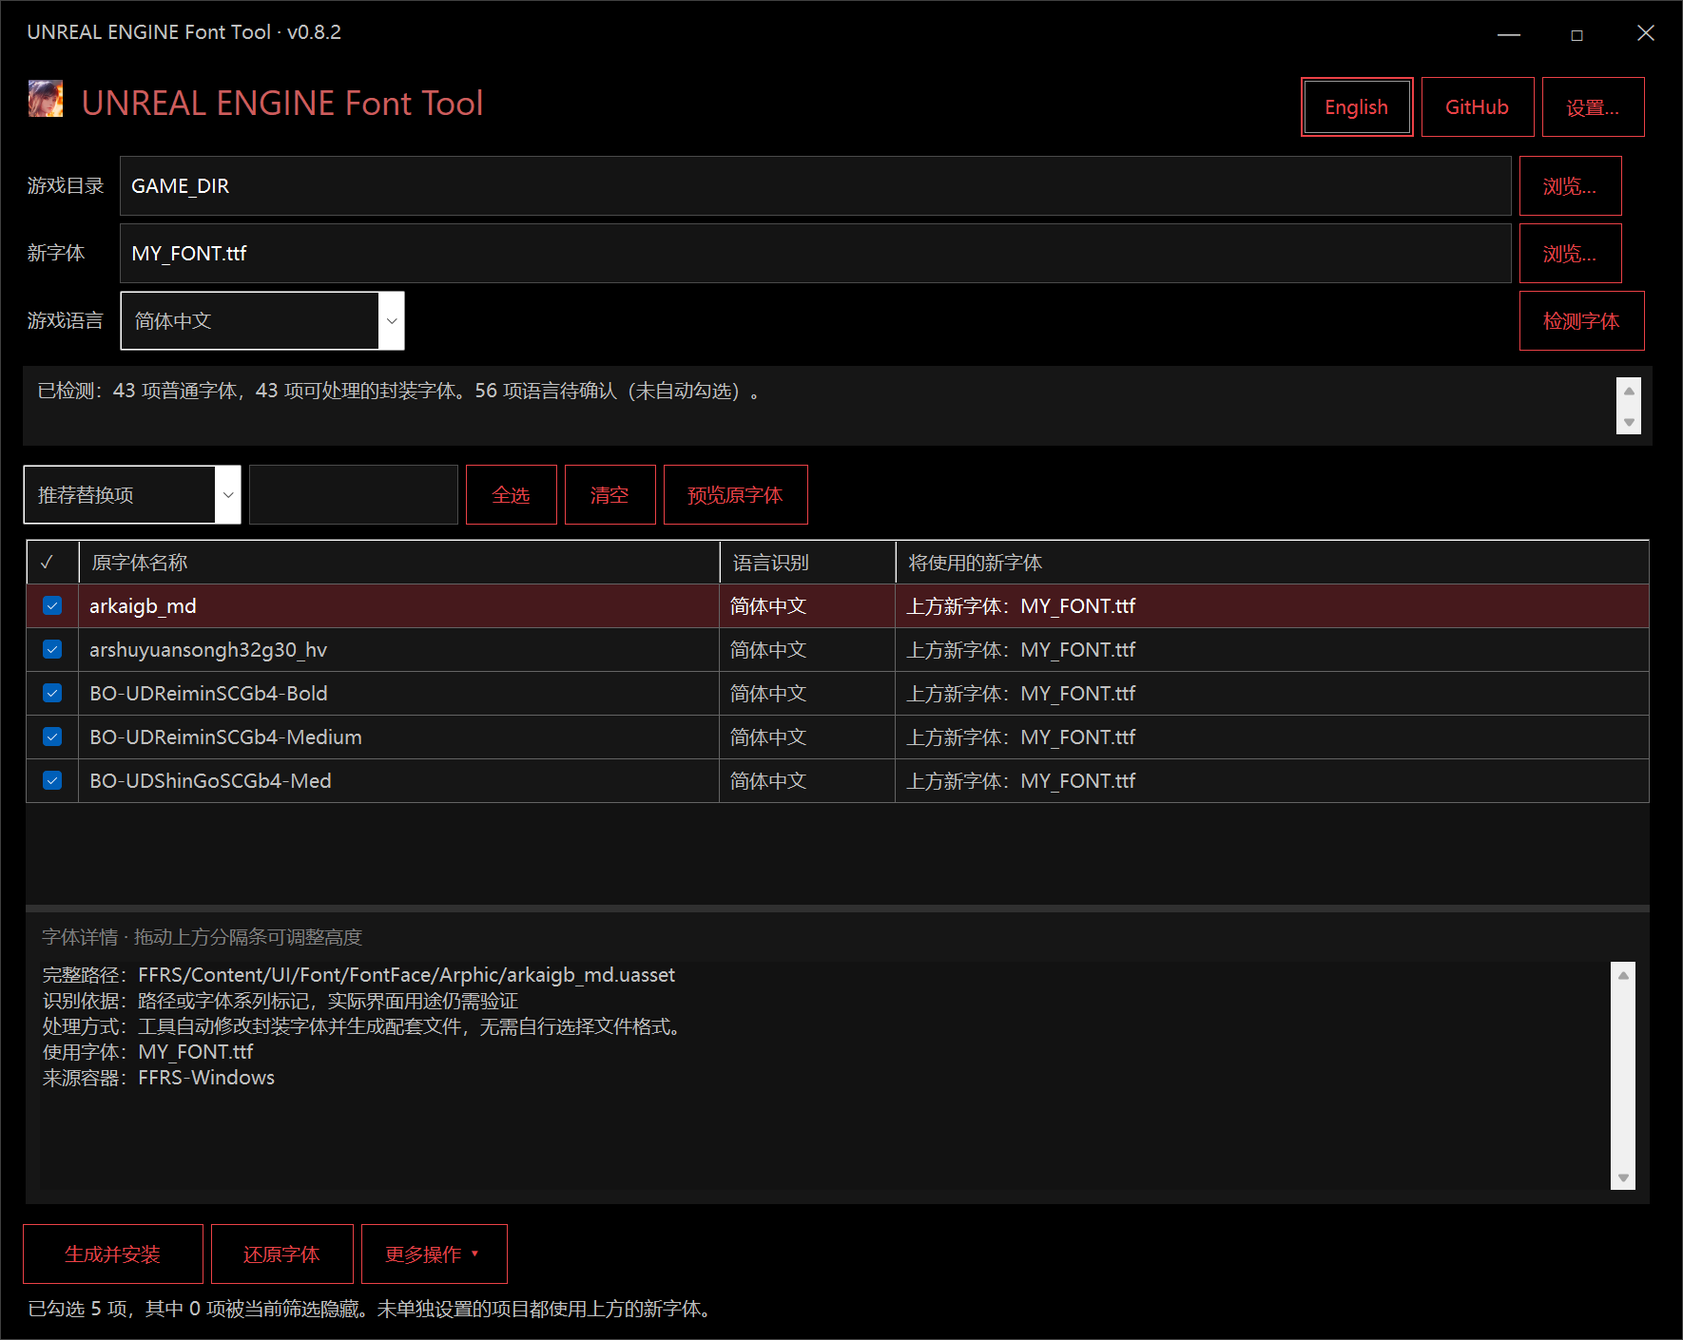
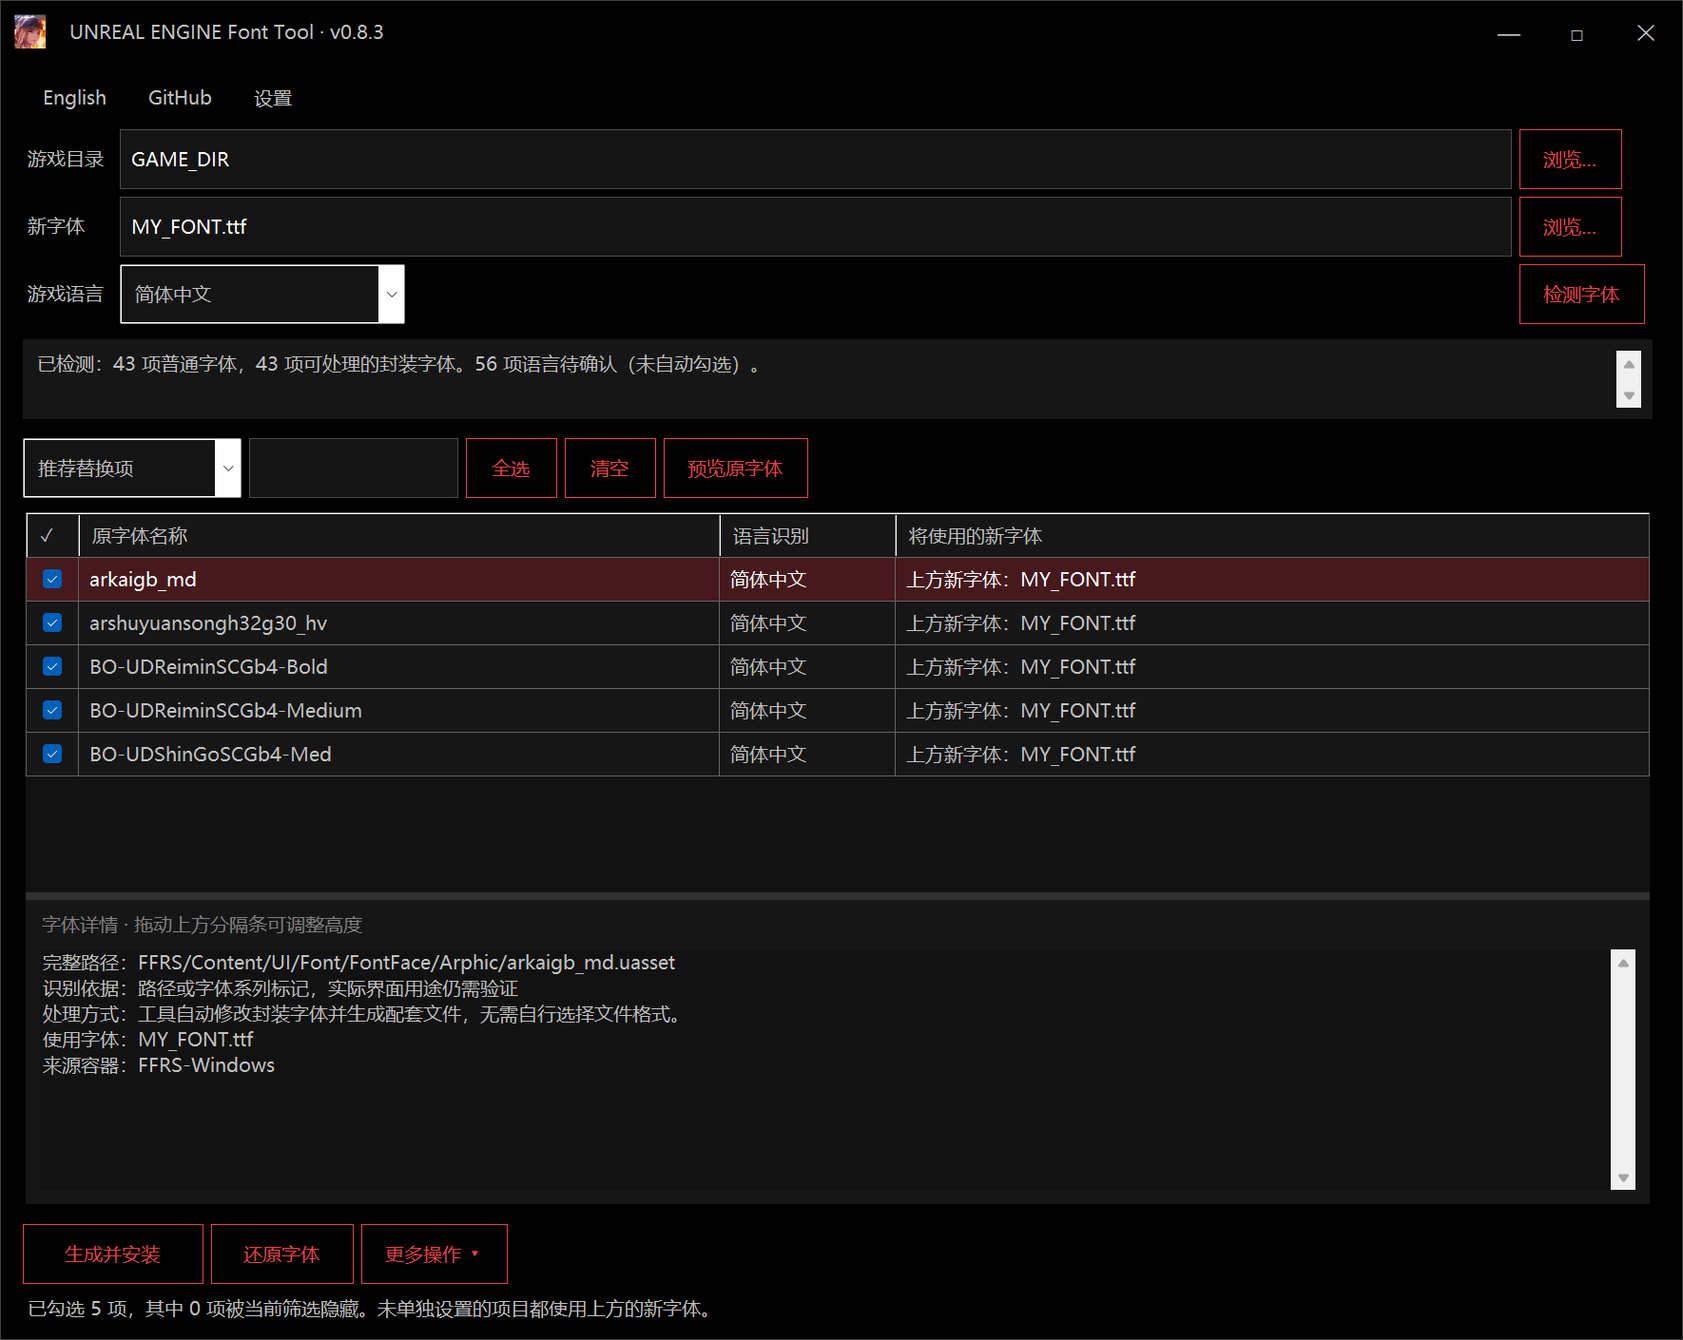
Move language, GitHub and settings into a traditional top menu

diff --git a/UEFontTool/GuidedLayout.cs b/UEFontTool/GuidedLayout.cs
@@ -5,12 +5,15 @@ namespace UEFontTool;
 
 public sealed partial class GuidedForm
 {
-    readonly Button restoreFonts=Button(),moreActions=Button(),github=Button();
+    readonly Button restoreFonts=Button(),moreActions=Button();
+    readonly ToolStripMenuItem languageMenu=new(),githubMenu=new("GitHub"),settingsMenu=new();
     readonly SplitContainer infoSplit=new(){Size=new Size(1000,520),Orientation=Orientation.Horizontal,SplitterWidth=8,Panel1MinSize=80,Panel2MinSize=80,SplitterDistance=280,Dock=DockStyle.Fill,BackColor=Color.FromArgb(48,48,48)};
     readonly Label detailsHeading=new(){AutoSize=true,ForeColor=Color.Gray,Margin=new Padding(0,0,0,10)};
-    bool installAfterBuild=true;
+    bool installAfterBuild=true,preventActivation;
+    protected override bool ShowWithoutActivation=>preventActivation;
     public GuidedForm(bool loadSettings=true)
     {
+        preventActivation=!loadSettings;
         Text="UNREAL ENGINE Font Tool · v"+Application.ProductVersion.Split('+')[0];ClientSize=new Size(1180,940);MinimumSize=new Size(1000,760);StartPosition=FormStartPosition.CenterScreen;BackColor=Color.Black;ForeColor=Color.Silver;Font=new Font("Microsoft YaHei UI",10);AutoScaleDimensions=new SizeF(96,96);AutoScaleMode=AutoScaleMode.Dpi;
         Shown+=(_,_)=>{var area=Screen.FromControl(this).WorkingArea;MinimumSize=new Size(Math.Min(MinimumSize.Width,area.Width),Math.Min(MinimumSize.Height,area.Height));Size=new Size(Math.Min(Width,area.Width),Math.Min(Height,area.Height));Location=new Point(area.Left+(area.Width-Width)/2,area.Top+(area.Height-Height)/2);};
         using var icon=typeof(MainForm).Assembly.GetManifestResourceStream("UEFontTool.Resources.app.ico")!;Icon=new Icon(icon);
@@ -22,9 +25,9 @@ public sealed partial class GuidedForm
         root.ColumnStyles.Add(new ColumnStyle(SizeType.Percent,100));
         bool sizingContent=false;void SizeContent(){if(sizingContent)return;sizingContent=true;try{int width=scroll.ClientSize.Width-(root.MinimumSize.Height>scroll.ClientSize.Height?SystemInformation.VerticalScrollBarWidth:0);root.Size=new Size(Math.Max(root.MinimumSize.Width,width),Math.Max(root.MinimumSize.Height,scroll.ClientSize.Height));}finally{sizingContent=false;}}scroll.SizeChanged+=(_,_)=>SizeContent();Shown+=(_,_)=>SizeContent();
         root.RowStyles.Add(new RowStyle(SizeType.AutoSize));root.RowStyles.Add(new RowStyle(SizeType.AutoSize));root.RowStyles.Add(new RowStyle(SizeType.Absolute,96));root.RowStyles.Add(new RowStyle(SizeType.AutoSize));root.RowStyles.Add(new RowStyle(SizeType.Percent,100));
-        var header=new TableLayoutPanel{Dock=DockStyle.Fill,AutoSize=true,ColumnCount=4,Margin=new Padding(0,0,0,12)};header.ColumnStyles.Add(new ColumnStyle(SizeType.Percent,100));for(int i=0;i<3;i++)header.ColumnStyles.Add(new ColumnStyle(SizeType.AutoSize));
-        var brand=new FlowLayoutPanel{AutoSize=true,Dock=DockStyle.Fill,WrapContents=false};using var stream=typeof(MainForm).Assembly.GetManifestResourceStream("UEFontTool.Resources.icon.jpg")!;using var image=Image.FromStream(stream);var picture=new PictureBox{Image=new Bitmap(image),SizeMode=PictureBoxSizeMode.Zoom,Size=new Size(36,42)};picture.Disposed+=(_,_)=>picture.Image?.Dispose();brand.Controls.Add(picture);brand.Controls.Add(new Label{Text="UNREAL ENGINE Font Tool",AutoSize=true,Font=new Font("Segoe UI",18),ForeColor=Color.IndianRed,Margin=new Padding(8,2,0,0)});header.Controls.Add(brand);header.Controls.Add(toggleLanguage);header.Controls.Add(advancedToggle);root.Controls.Add(header,0,0);
-        header.Controls.Remove(advancedToggle);github.Text="GitHub";github.Click+=(_,_)=>Process.Start(new ProcessStartInfo("https://github.com/jakeouyang/UEFontTool"){UseShellExecute=true});header.Controls.Add(github,2,0);header.Controls.Add(advancedToggle,3,0);
+        var menu=new MenuStrip{Dock=DockStyle.Fill,AutoSize=true,BackColor=Color.Black,ForeColor=Color.Silver,Padding=new Padding(0,4,0,8),Font=Font,Renderer=new ToolStripProfessionalRenderer(new FontMenuColors())};
+        foreach(var item in new[]{languageMenu,githubMenu,settingsMenu}){item.ForeColor=Color.Silver;item.Padding=new Padding(14,6,14,6);menu.Items.Add(item);}MainMenuStrip=menu;root.Controls.Add(menu,0,0);
+        languageMenu.Click+=(_,_)=>{zh=!zh;Localize();};githubMenu.Click+=(_,_)=>Process.Start(new ProcessStartInfo("https://github.com/jakeouyang/UEFontTool"){UseShellExecute=true});settingsMenu.Click+=(_,_)=>ShowSettings();
         var inputs=new TableLayoutPanel{Dock=DockStyle.Fill,AutoSize=true,ColumnCount=3,RowCount=3,Margin=new Padding(0,0,0,8)};inputs.ColumnStyles.Add(new ColumnStyle(SizeType.AutoSize));inputs.ColumnStyles.Add(new ColumnStyle(SizeType.Percent,100));inputs.ColumnStyles.Add(new ColumnStyle(SizeType.AutoSize));
         for(int i=0;i<3;i++)inputs.RowStyles.Add(new RowStyle(SizeType.AutoSize));
         foreach(var label in new[]{gameLabel,fontLabel,langLabel}){label.AutoSize=true;label.Dock=DockStyle.None;label.Anchor=AnchorStyles.Left;label.Margin=new Padding(0,6,10,8);}
@@ -39,7 +42,7 @@ public sealed partial class GuidedForm
         frame.SizeChanged+=(_,_)=>selection.MaximumSize=new Size(Math.Max(100,frame.ClientSize.Width-frame.Padding.Horizontal-8),0);
         Shown+=(_,_)=>{AlignFieldHeights();if(infoSplit.Height>infoSplit.Panel1MinSize+infoSplit.Panel2MinSize+infoSplit.SplitterWidth)infoSplit.SplitterDistance=Math.Clamp((int)(infoSplit.Height*.55),infoSplit.Panel1MinSize,infoSplit.Height-infoSplit.Panel2MinSize-infoSplit.SplitterWidth);};
         engine.Items.Add("Auto");engine.Items.AddRange(GuideHints.EngineVersions);engine.SelectedIndex=0;modName.Text="zz_UEFontTool_P";key.UseSystemPasswordChar=true;
-        gamePick.Click+=(_,_)=>{using var dialog=new FolderBrowserDialog();if(dialog.ShowDialog(this)==DialogResult.OK)game.Text=dialog.SelectedPath;};fontPick.Click+=(_,_)=>ChooseFont(p=>font.Text=p);toggleLanguage.Click+=(_,_)=>{zh=!zh;Localize();};advancedToggle.Click+=(_,_)=>ShowSettings();
+        gamePick.Click+=(_,_)=>{using var dialog=new FolderBrowserDialog();if(dialog.ShowDialog(this)==DialogResult.OK)game.Text=dialog.SelectedPath;};fontPick.Click+=(_,_)=>ChooseFont(p=>font.Text=p);
         analyze.Click+=(_,_)=>Analyze();build.Click+=(_,_)=>{installAfterBuild=true;Build();};restoreFonts.Click+=async(_,_)=>await RestoreInstalled();preview.Click+=(_,_)=>PreviewOriginal();moreActions.Click+=(_,_)=>MoreMenu();
         language.SelectedIndexChanged+=(_,_)=>{if(!filling){Recommend();RefreshSummary();Fill();}};view.SelectedIndexChanged+=(_,_)=>{if(!filling)Fill();};search.TextChanged+=(_,_)=>Fill();all.Click+=(_,_)=>SelectVisible(true);none.Click+=(_,_)=>SelectVisible(false);
         game.TextChanged+=(_,_)=>InvalidateAnalysis();key.TextChanged+=(_,_)=>InvalidateAnalysis();engine.SelectedIndexChanged+=(_,_)=>InvalidateAnalysis();font.TextChanged+=(_,_)=>{output=null;Fill();};
@@ -51,7 +54,7 @@ public sealed partial class GuidedForm
     void AlignFieldHeights()
     {
         int height=Math.Max(DeviceDpi*42/96,gamePick.Font.Height+16);
-        foreach(var button in new[]{gamePick,fontPick,analyze,build,restoreFonts,moreActions,toggleLanguage,advancedToggle,github,all,none,preview}){button.MinimumSize=new Size(button.MinimumSize.Width,height);button.Height=height;}
+        foreach(var button in new[]{gamePick,fontPick,analyze,build,restoreFonts,moreActions,all,none,preview}){button.MinimumSize=new Size(button.MinimumSize.Width,height);button.Height=height;}
         foreach(var input in new[]{game,font,search}){input.MinimumSize=new Size(input.MinimumSize.Width,height);input.Height=height;}
     }
     protected override void OnDpiChanged(DpiChangedEventArgs e){base.OnDpiChanged(e);if(Visible)AlignFieldHeights();}

diff --git a/UEFontTool/GuidedForm.cs b/UEFontTool/GuidedForm.cs
@@ -29,7 +29,7 @@ public sealed partial class GuidedForm : DarkWindow
     void Localize()
     {
         filling=true;int l=language.SelectedIndex<0?0:language.SelectedIndex,v=view.SelectedIndex<0?0:view.SelectedIndex;language.Items.Clear();language.Items.AddRange(zh?new object[]{"简体中文","繁體中文","英文"}:new object[]{"Simplified Chinese","Traditional Chinese","English"});language.SelectedIndex=l;view.Items.Clear();view.Items.AddRange(zh?new object[]{"推荐替换项","全部游戏字体","语言待确认","引擎 / 回退字体"}:new object[]{"Recommended targets","All game fonts","Language unconfirmed","Engine / fallback fonts"});view.SelectedIndex=v;view.Width=Math.Max(230,view.Items.Cast<string>().Max(text=>TextRenderer.MeasureText(text,view.Font).Width)+40);view.DropDownWidth=view.Width;filling=false;
-        SetCaptionLanguage(zh);detailsHeading.Text=T("字体详情 · 拖动上方分隔条可调整高度","Font details · drag the divider to resize");search.PlaceholderText=T("搜索字体","Search fonts");toggleLanguage.Text=T("English","中文");gameLabel.Text=T("游戏目录","Game folder");fontLabel.Text=T("新字体","New font");langLabel.Text=T("游戏语言","Game language");game.FieldName=gameLabel.Text;font.FieldName=fontLabel.Text;search.FieldName=T("搜索字体","Search fonts");gamePick.Text=fontPick.Text=T("浏览…","Browse…");analyze.Text=T("检测字体","Detect fonts");advancedToggle.Text=T("设置…","Settings…");restoreFonts.Text=T("还原字体","Restore fonts");moreActions.Text=T("更多操作 ▾","More ▾");
+        SetCaptionLanguage(zh);detailsHeading.Text=T("字体详情 · 拖动上方分隔条可调整高度","Font details · drag the divider to resize");search.PlaceholderText=T("搜索字体","Search fonts");languageMenu.Text=T("English","中文");gameLabel.Text=T("游戏目录","Game folder");fontLabel.Text=T("新字体","New font");langLabel.Text=T("游戏语言","Game language");game.FieldName=gameLabel.Text;font.FieldName=fontLabel.Text;search.FieldName=T("搜索字体","Search fonts");gamePick.Text=fontPick.Text=T("浏览…","Browse…");analyze.Text=T("检测字体","Detect fonts");settingsMenu.Text=T("设置","Settings");restoreFonts.Text=T("还原字体","Restore fonts");moreActions.Text=T("更多操作 ▾","More ▾");
         all.Text=T("全选","Select all");none.Text=T("清空","Clear");build.Text=T("生成并安装","Build and install");
         allowSymbols.Text=T("允许缺少特殊字形（可能影响图标）","Allow missing custom symbols (may affect icons)");preview.Text=T("预览原字体","Preview original");string[] headers=zh?new[]{"✓","原字体名称","语言识别","处理方式","将使用的新字体"}:new[]{"Use","Original font","Language hint","Handling","Replacement font"};for(int i=0;i<headers.Length;i++)grid.Columns[i].HeaderText=headers[i];grid.Columns[2].Width=zh?185:Math.Max(220,TextRenderer.MeasureText("Traditional Chinese",grid.Font).Width+32);if(Visible)AlignFieldHeights();RefreshSummary();Fill();
     }
@@ -55,7 +55,7 @@ public sealed partial class GuidedForm : DarkWindow
         if(busy)return;summary.ForeColor=problem!=null?Color.Khaki:Color.Silver;summary.Text=problem??(!hasAnalyzed?T("选择游戏和新字体，再点击“检测字体”。文件格式由工具自动处理。","Choose a game and font, then Detect fonts. Packaging is automatic."):T($"已检测：{targets.Count(t=>!t.Inline)} 项普通字体，{targets.Count(t=>t.Inline)} 项可处理的封装字体。{targets.Count(t=>!t.Engine&&t.Language.Languages==Languages.None)} 项语言待确认（未自动勾选）。",$"Detected {targets.Count(t=>!t.Inline)} standalone and {targets.Count(t=>t.Inline)} supported embedded fonts. {targets.Count(t=>!t.Engine&&t.Language.Languages==Languages.None)} language-unconfirmed items were not automatically selected.")+(partial?Environment.NewLine+T("部分资源未能识别，请在“更多操作”查看检测详情。","Some resources were not inspected; see More → Detection details."):""));
         if(problem==null&&hasAnalyzed&&!targets.Any(t=>t.Recommended))summary.Text=T("未找到当前语言的可靠推荐。请切换“语言待确认”预览原字体，或查看“全部游戏字体”；有些游戏简繁共用，需手动确认。","No reliable recommendations for this language. Review Language unconfirmed or All game fonts and preview originals; some games share Chinese fonts.")+(partial?Environment.NewLine+T("另有部分资源未能识别，请查看检测详情。","Some resources could not be inspected; see Detection details."):"");
     }
-    void SetBusy(bool value){busy=value;UseWaitCursor=value;foreach(var c in new Control[]{game,font,gamePick,fontPick,language,analyze,advancedToggle,advanced,view,search,all,none,grid,custom,reset,toggleLanguage,preview,restoreFonts,moreActions})c.Enabled=!value;UpdateSelection();}
+    void SetBusy(bool value){busy=value;UseWaitCursor=value;languageMenu.Enabled=githubMenu.Enabled=settingsMenu.Enabled=!value;foreach(var c in new Control[]{game,font,gamePick,fontPick,language,analyze,advancedToggle,advanced,view,search,all,none,grid,custom,reset,toggleLanguage,preview,restoreFonts,moreActions})c.Enabled=!value;UpdateSelection();}
     async void PreviewOriginal()
     {
         if(busy||scan==null||grid.CurrentRow?.Tag is not GuideTarget target){details.Text=T("请先检测字体，再点击列表中的一项。","Analyze first, then click a font in the list.");return;}

diff --git a/UEFontTool/DarkWindow.cs b/UEFontTool/DarkWindow.cs
@@ -13,6 +13,7 @@ public class DarkWindow : Form
     {
         FormBorderStyle=FormBorderStyle.None;BackColor=Color.Black;ForeColor=Color.Silver;Padding=new Padding(1);DoubleBuffered=true;
         caption.Controls.Add(captionText);
+        var picture=new PictureBox{Dock=DockStyle.Left,Width=40,BackColor=Color.Black};picture.Paint+=(_,e)=>{if(Icon!=null){int size=DeviceDpi*24/96;e.Graphics.DrawIcon(Icon,new Rectangle((picture.Width-size)/2,(picture.Height-size)/2,size,size));}};caption.Controls.Add(picture);picture.MouseDown+=DragWindow;captionText.Padding=new Padding(4,0,0,0);
         foreach(var button in new[]{minimize,maximize,close}){button.Dock=DockStyle.Right;caption.Controls.Add(button);}
         Controls.Add(caption);caption.AccessibleRole=AccessibleRole.TitleBar;
         minimize.Click+=(_,_)=>WindowState=FormWindowState.Minimized;maximize.Click+=(_,_)=>ToggleMaximize();close.Click+=(_,_)=>Close();
@@ -36,4 +37,15 @@ public class DarkWindow : Form
         bool left=point.X<grip,right=point.X>=ClientSize.Width-grip,top=point.Y<grip,bottom=point.Y>=ClientSize.Height-grip;
         m.Result=(IntPtr)(top?(left?13:right?14:12):bottom?(left?16:right?17:15):left?10:right?11:1);
     }
+}
+
+public sealed class FontMenuColors : ProfessionalColorTable
+{
+    public override Color MenuItemSelected=>Color.FromArgb(45,25,28);
+    public override Color MenuItemSelectedGradientBegin=>MenuItemSelected;
+    public override Color MenuItemSelectedGradientEnd=>MenuItemSelected;
+    public override Color MenuItemBorder=>Color.FromArgb(75,40,45);
+    public override Color MenuBorder=>Color.FromArgb(50,50,50);
+    public override Color MenuStripGradientBegin=>Color.Black;
+    public override Color MenuStripGradientEnd=>Color.Black;
 }

diff --git a/README.en.md b/README.en.md
@@ -26,7 +26,7 @@ Download `UEFontTool-vVERSION-win-x64.zip` from **Releases**, extract the comple
 
 **Advanced controls?** **Settings** contains masked AES input, engine-version overrides, mod names and the explicit allow-custom-character-loss option. Version detection is automatic where possible. **More** offers Build only, output folder, detection details and Expert tools. The older dedicated expert builder still builds only; use the default interface for automated installation/restoration.
 
-The black title bar retains minimize, maximize/restore, close, dragging and edge resizing. Inputs and buttons share a height. Drag the list/details divider to resize the information area; long details wrap and scroll. On smaller windows, content scrolls while build/install/restore actions remain visible.
+A traditional top menu contains language switching, GitHub and Settings. The icon sits beside the window title, without a duplicate content heading. The black title bar retains minimize, maximize/restore, close, dragging and edge resizing. Inputs and buttons share a height. Drag the list/details divider to resize the information area; long details wrap and scroll. On smaller windows, content scrolls while build/install/restore actions remain visible.
 
 ## Fonts and containers
 
@@ -96,7 +96,7 @@ dotnet build UEFontTool/UEFontTool.csproj -c Release
 dotnet UEFontTool/bin/Release/net8.0-windows/UEFontTool.dll --self-test test-results.txt
 ```
 
-Automated tests use synthetic archives, system fonts and test-only keys; no game is needed. Main pushes, PRs and manual Actions runs build/test and upload artifacts. A `v*` tag matching the project version, such as `v0.8.2`, publishes to GitHub Releases. The workflow uses `GITHUB_TOKEN`; personal tokens and SSH private keys do not belong in source control.
+Automated tests use synthetic archives, system fonts and test-only keys; no game is needed. Main pushes, PRs and manual Actions runs build/test and upload artifacts. A `v*` tag matching the project version, such as `v0.8.3`, publishes to GitHub Releases. The workflow uses `GITHUB_TOKEN`; personal tokens and SSH private keys do not belong in source control.
 
 ## Command line
 

diff --git a/README.md b/README.md
@@ -26,7 +26,7 @@ Windows 桌面工具：检测虚幻引擎游戏中的字体，查看语言提示
 
 **高级参数在哪里？** 顶部 **设置**中可直接粘贴 AES、手动选择引擎版本、设置输出名称及允许缺少特殊字符。默认自动检测版本；无法确定时才需手选。**更多操作**提供仅生成、打开输出目录、检测详情和专家工具。专家窗口的旧式专用构建仍只生成；自动安装和还原使用默认新手界面。
 
-窗口使用全黑标题栏，保留最小化、最大化/还原、关闭、拖动及边缘缩放。输入框与按钮统一高度；列表与字体详情之间的分隔条可拖动，长信息可换行和滚动。窗口较小时，内容区支持滚动，底部生成、安装和还原操作保持可见。
+顶部菜单栏集中提供语言切换、GitHub 和设置；图标位于软件标题左侧，内容区不再重复大标题。窗口使用全黑标题栏，保留最小化、最大化/还原、关闭、拖动及边缘缩放。输入框与按钮统一高度；列表与字体详情之间的分隔条可拖动，长信息可换行和滚动。窗口较小时，内容区支持滚动，底部生成、安装和还原操作保持可见。
 
 ## 字体与容器的处理
 
@@ -96,7 +96,7 @@ dotnet build UEFontTool/UEFontTool.csproj -c Release
 dotnet UEFontTool/bin/Release/net8.0-windows/UEFontTool.dll --self-test test-results.txt
 ```
 
-自动测试使用合成包、系统字体和测试密钥，不需要游戏。`main` 推送、PR 或手动 Actions 会构建、测试并上传产物；推送与项目版本一致的 `v*` 标签（如 `v0.8.2`）会发布至 GitHub Releases。流水线使用 `GITHUB_TOKEN`，不需要提交个人令牌或 SSH 私钥。
+自动测试使用合成包、系统字体和测试密钥，不需要游戏。`main` 推送、PR 或手动 Actions 会构建、测试并上传产物；推送与项目版本一致的 `v*` 标签（如 `v0.8.3`）会发布至 GitHub Releases。流水线使用 `GITHUB_TOKEN`，不需要提交个人令牌或 SSH 私钥。
 
 ## 命令行
 

diff --git a/CHANGELOG.md b/CHANGELOG.md
@@ -1,5 +1,11 @@
 # Changelog / 更新记录
 
+## v0.8.3
+
+- Remove the duplicate in-content icon/title. Show the application icon beside the window title and expose language, GitHub and Settings in a traditional top menu bar.
+- Documentation previews no longer activate their window; refresh both language screenshots.
+- 移除内容区重复大标题，将图标移至软件标题左侧；语言切换、GitHub、设置改为顶部传统菜单。
+
 ## v0.8.2
 
 - Replace the default window chrome with a black title bar, retaining minimize, maximize/restore, close, caption dragging and edge resizing. Settings, diagnostics, conflict lists and original-font preview use matching dark windows.
